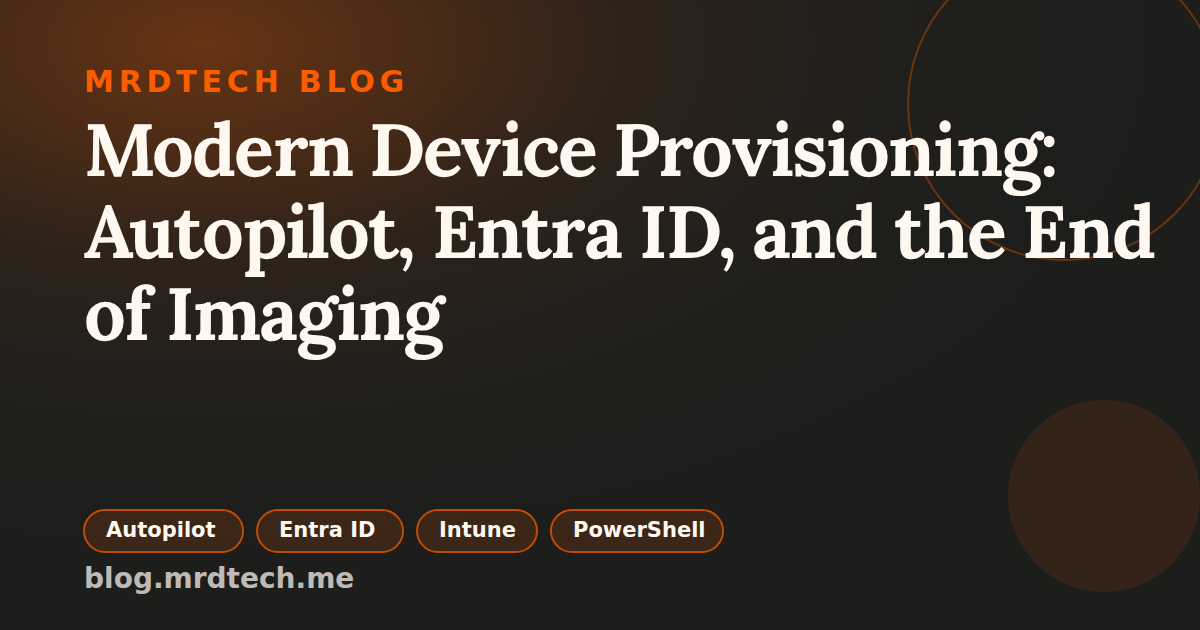
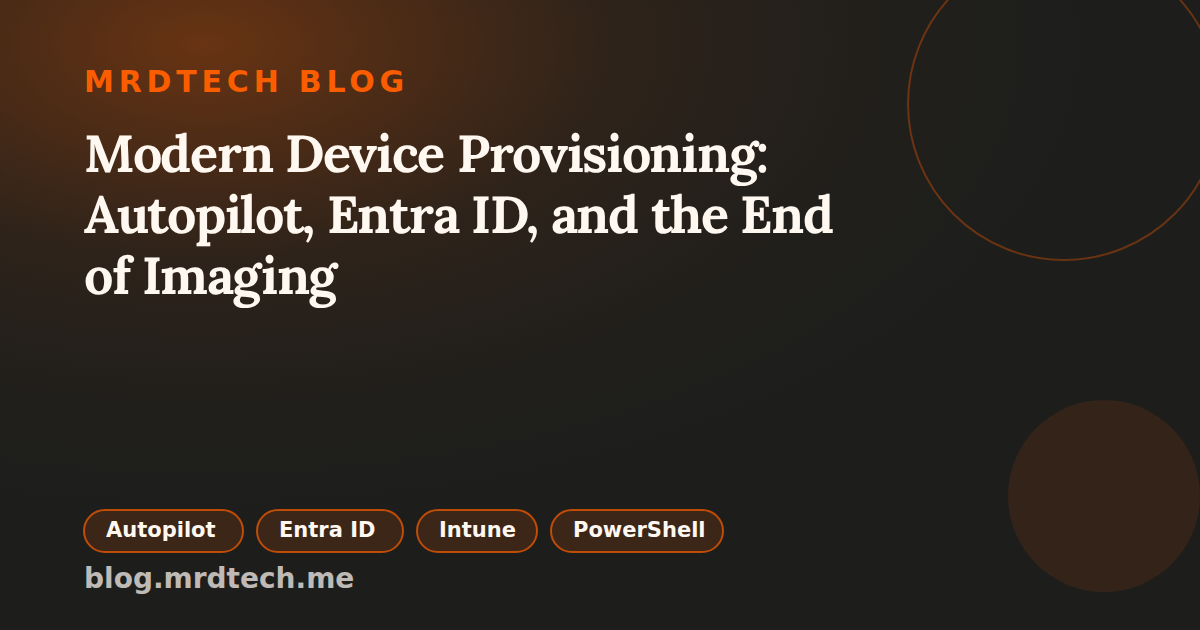
style: tighten blog headings and OG title scale

Changed region(s): [[0.0617, 0.181, 0.9558, 0.573]]

diff --git a/assets/css/main.css b/assets/css/main.css
@@ -143,17 +143,17 @@ a:hover {
   margin: 0;
   color: var(--heavy-metal);
   font-family: var(--body-font);
-  font-size: clamp(2.35rem, 5vw, 2.75rem);
+  font-size: clamp(2rem, 4vw, 40px);
   font-weight: 700;
-  line-height: 1.08;
-  letter-spacing: -0.035em;
+  line-height: 1.1;
+  letter-spacing: -0.025em;
 }
 
 .post-title {
   margin: 0;
   color: var(--heavy-metal);
   font-family: var(--body-font);
-  font-size: clamp(2rem, 4vw, 2.25rem);
+  font-size: clamp(1.75rem, 3vw, 32px);
   font-weight: 700;
   line-height: 1.1;
   letter-spacing: -0.025em;

diff --git a/_layouts/default.html b/_layouts/default.html
@@ -16,7 +16,7 @@
     <link rel="preconnect" href="https://fonts.googleapis.com">
     <link rel="preconnect" href="https://fonts.gstatic.com" crossorigin>
     <link href="https://fonts.googleapis.com/css2?family=Lora:wght@400;600;700&display=swap" rel="stylesheet">
-    <link rel="stylesheet" href="{{ '/assets/css/main.css' | relative_url }}">
+    <link rel="stylesheet" href="{{ '/assets/css/main.css' | relative_url }}?v={{ site.time | date: '%s' }}">
   </head>
   <body>
     {% include header.html %}

diff --git a/scripts/generate_og_images.py b/scripts/generate_og_images.py
@@ -78,9 +78,9 @@ def wrap_title(title: str) -> list[str]:
 
 def svg_for_post(title: str, tags: list[str]) -> str:
     title_lines = wrap_title(title)
-    title_font_size = 74 if len(title_lines) <= 3 else 64
-    title_line_height = int(title_font_size * 1.12)
-    title_y = 176
+    title_font_size = 52 if len(title_lines) <= 3 else 46
+    title_line_height = int(title_font_size * 1.18)
+    title_y = 172
     line_svg = []
     for i, line in enumerate(title_lines):
         line_svg.append(
